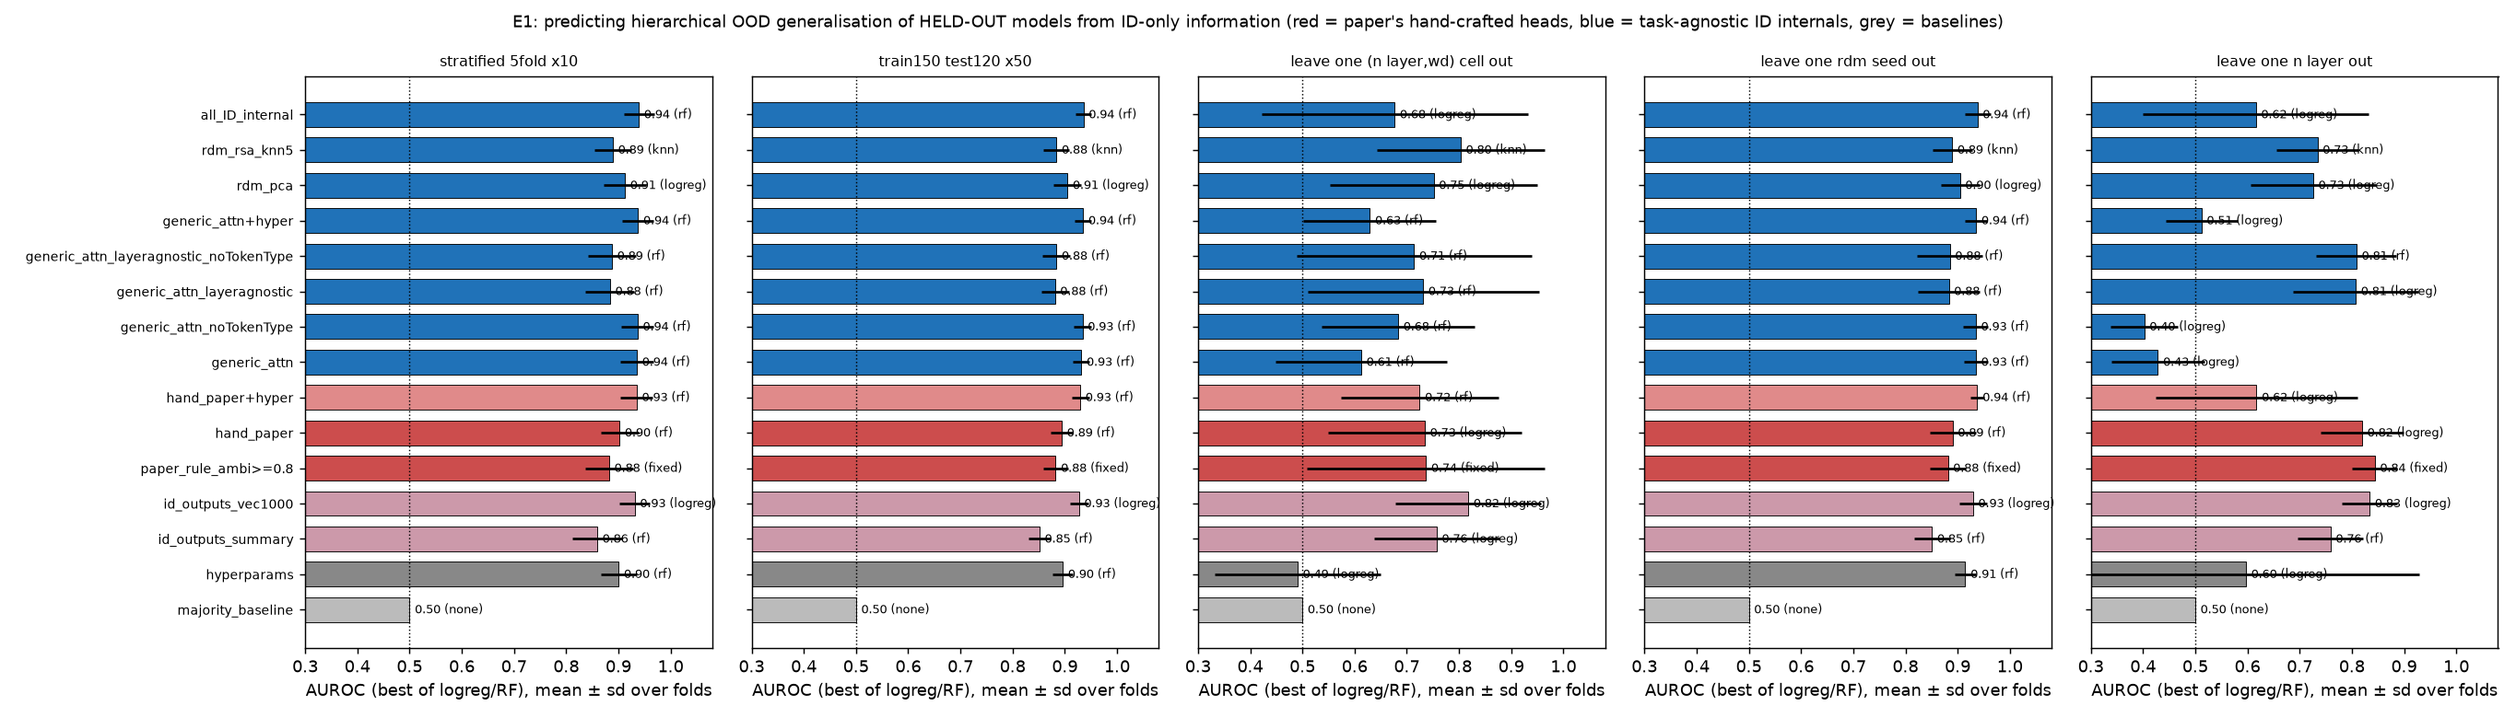
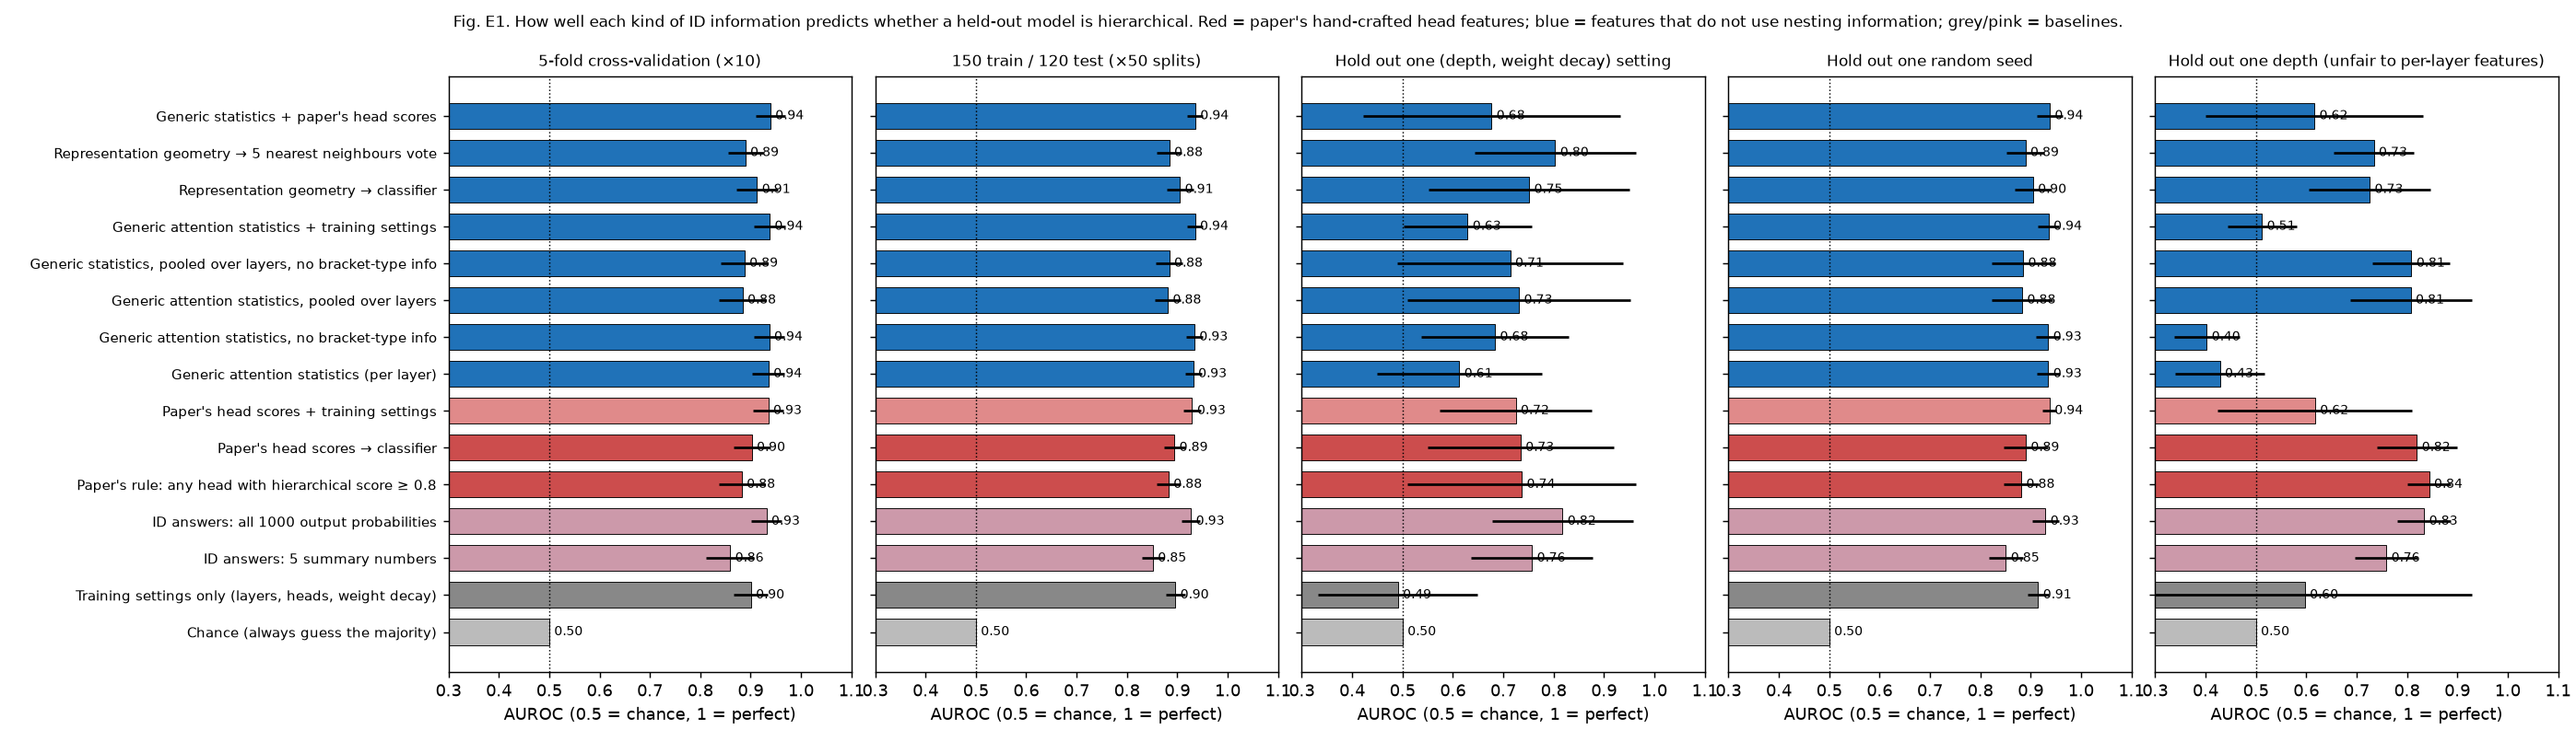
Update id-predict-ood reviewer-response page

Changed region(s): [[0.0, 0.0, 0.9963, 0.9846], [0.9341, 0.6462, 0.9963, 0.7077]]

diff --git a/id-predict-ood-reviews/index.html b/id-predict-ood-reviews/index.html
@@ -28,10 +28,11 @@ img{max-width:100%;border:1px solid var(--line);border-radius:6px;margin:6px 0 4
 <li><em>ID and OOD.</em> ID (in-distribution) test strings look like the training data; both rules give the same answer on them. OOD (out-of-distribution) test strings were chosen so the two rules disagree. A model's <em>OOD accuracy</em> is how often it gives the nesting-rule answer on those strings.</li>
 <li><em>Hierarchical model</em>: OOD accuracy ≥ 0.5, meaning it mostly follows the nesting rule. The paper trained 270 small Transformers; all reach near-perfect ID accuracy but differ in OOD accuracy.</li>
 <li><em>Attention head</em>: a part of a Transformer that decides which earlier positions in the string to read from. The paper's <em>hierarchical-head score</em> is how often, on ID strings, a head's attention separates the positions where nesting is violated from those where it is not.</li>
-<li><em>Paper's predictor</em>: call a model hierarchical if any of its heads has a hierarchical-head score ≥ 0.8. <em>Head-score classifier</em>: a standard classifier (logistic regression or random forest) fit on the paper's per-layer head scores instead of using the fixed 0.8 rule.</li>
-<li><em>Generic features</em>: statistics of ID attention that use no information about brackets, depth or violations: how spread out attention is (entropy), how much goes to the start, the current token, the first or last token, and where along the string it falls.</li>
-<li><em>Geometry</em>: how similar a model's internal representations of different ID strings are to each other. Two models have similar geometry if they group the same strings together internally.</li>
-<li><em>Hyperparameters</em>: training settings: number of layers, number of attention heads, weight decay (a regularisation strength). They were varied across the 270 models.</li>
+<li><em>Paper's rule</em>: call a model hierarchical if any of its heads has a hierarchical-head score ≥ 0.8. <em>Paper's head scores → classifier</em>: a standard classifier (logistic regression or random forest) fit on the paper's per-layer head scores instead of using the fixed 0.8 rule.</li>
+<li><em>Generic attention statistics</em>: statistics of ID attention that do not use depth or nesting violations: how spread out attention is (entropy), how much goes to the start, the current token, the first or last token, and where along the string it falls. "Per layer" keeps them separate for each layer. "No bracket-type info" also drops how much attention lands on <code>(</code> vs <code>)</code>; it gives the same results.</li>
+<li><em>Representation geometry</em>: how similar a model's internal representations of different ID strings are to each other. Two models have similar geometry if they group the same strings together internally. Used either through a classifier or by letting a model's 5 most similar models vote.</li>
+<li><em>ID answers</em>: the model's own outputs on the 1000 ID test strings (all of them, or 5 summary numbers such as average confidence). A baseline that uses behaviour, not internals.</li>
+<li><em>Training settings</em>: number of layers (depth), number of attention heads, weight decay (a regularisation strength). Varied across the 270 models. A baseline that uses no measurement of the model at all.</li>
 <li><em>Held-out prediction</em>: fit a predictor on some models, then test it on other models it never saw. <em>AUROC</em> measures how well the predictor ranks hierarchical models above the others: 1.0 = perfect, 0.5 = chance.</li>
 <li><em>t-SNE and PCA</em>: two ways to draw high-dimensional data in 2D. PCA is a linear projection that keeps overall distances. t-SNE keeps only which points are near each other and can make a continuum look like separate clusters.</li>
 <li><em>Cluster statistics.</em> <em>Silhouette</em>: how separated clusters are (1 = clearly separated, 0 = no structure). <em>ARI</em>: agreement between two groupings (1 = identical, 0 = chance). <em>Dip test</em>: a test of whether a distribution has more than one peak.</li>
@@ -68,13 +69,13 @@ img{max-width:100%;border:1px solid var(--line);border-radius:6px;margin:6px 0 4
 <tr class="must">
 <td class="pri">🟢 Must</td>
 <td><strong>tsfC W2.</strong> "it seemed that it was based on analysing the different attention patterns from the two groups of trained models. ... If this is the case, it seems quite circular. i.e. the two groups are established based on their OOD performance, then differences in the attention patterns are associated with the different generalisations. ... Perhaps one change to the methodology could be to train another model to predict the generalisation based on ~150 of the transformer models and show that this generalises to the ~100 held-out models."</td>
-<td>Did exactly this: fit on 150 models, test on the other 120, 50 random splits (Fig. E1). Head-score classifier: accuracy 0.82, AUROC 0.88. Paper's predictor: 0.79, 0.88. Chance: 0.52. Two baselines matter. Hyperparameters alone predict OOD class with AUROC 0.88–0.90, and a model's 1000 ID answers alone reach 0.93. To separate internals from training settings, we held out all models with a given (depth, weight decay) setting: hyperparameters fall to chance (0.44–0.49) while ID-based predictors still work (ID answers 0.82, geometry 0.80, paper's predictor 0.74, head-score classifier 0.73).</td>
+<td>Did exactly this: fit on 150 models, test on the other 120, 50 random splits (Fig. E1, second panel). Paper's head scores → classifier: accuracy 0.82, AUROC 0.88. Paper's rule: 0.79, 0.88. Chance: 0.52. Two baselines matter. Training settings alone predict OOD class with AUROC 0.88–0.90, and a model's 1000 ID answers alone reach 0.93. To separate internals from training settings, we held out all models with a given (depth, weight decay) setting (Fig. E1, third panel): training settings fall to chance (0.44–0.49) while ID-based predictors still work (ID answers 0.82, geometry 0.80, paper's rule 0.74, head scores 0.73).</td>
 <td>One paragraph "Held-out prediction" at the end of Section 4 (shared with the RAoL W1 edit below): "A predictor fit on 150 models and tested on 120 unseen models identifies hierarchical generalisation with AUROC 0.88 (chance 0.50). Hyperparameters alone reach 0.88–0.90; when all models with a given (depth, weight decay) setting are held out, hyperparameters fall to chance while ID internals retain AUROC 0.73–0.80 (Appendix Y)." <strong>Space:</strong> main +3 lines. Appendix: table and Fig. E1, about one page.</td>
 </tr>
 <tr class="must">
 <td class="pri">🟢 Must</td>
 <td><strong>RAoL W1.</strong> "The paper defines/presents hierarchical heads using whether attention tracks violations of the very NESTED constraint that defines the OOD distinction, which makes the predictor highly task-specific and somewhat close to constructing a detector for the target property. A stronger demonstration would be needed to show that internal analysis can predict an OOD behavior whose relevant computational property was not explicitly used to define the interpretability criterion."</td>
-<td>Held-out prediction using only generic features or geometry, neither of which knows about brackets or nesting (Fig. E1, E4). Bracket task AUROC: generic features 0.89–0.94, geometry 0.89–0.91, paper's predictor 0.88, head-score classifier 0.89–0.90. The generic features also predict the paper's head scores (R² 0.84–0.86), so the same information is present without being built in. QF, 79 models: generic features 0.84, paper's main-clause-auxiliary feature 0.75.</td>
+<td>Held-out prediction using only generic attention statistics or representation geometry, neither of which uses nesting information (Fig. E1 blue bars, Fig. E4). Bracket task AUROC: generic statistics 0.89–0.94, geometry 0.89–0.91, paper's rule 0.88, paper's head scores 0.89–0.90. The generic statistics also predict the paper's head scores (R² 0.84–0.86), so the same information is present without being built in. QF, 79 models: generic statistics 0.84, paper's main-clause-auxiliary feature 0.75.</td>
 <td>Two sentences added to the same "Held-out prediction" paragraph: "Attention statistics that do not reference nesting (entropy, positional profile) predict held-out OOD behaviour as well as the hierarchical-head score (AUROC 0.89–0.94 vs 0.88), in both tasks. The hierarchical head is therefore one readable instance of a broader signal in ID internals." <strong>Space:</strong> main +2 lines. Appendix: feature definitions and the QF table (Fig. E4), about half a page. Answers RAoL W1 and DaQT W2 together.</td>
 </tr>
 <tr class="should">
@@ -104,13 +105,13 @@ img{max-width:100%;border:1px solid var(--line);border-radius:6px;margin:6px 0 4
 <tr class="should">
 <td class="pri">🟡 Should</td>
 <td><strong>DaQT W2.</strong> "The proposed framework is not sufficiently general. The experiments assume known candidate behaviors and hand-motivated internal features that correspond to those behaviors. It is unclear how the approach would work when the relevant strategies or OOD failure modes are not known in advance." / "Please explain how the framework would extend to settings where the relevant OOD behaviors or candidate algorithms are not known in advance."</td>
-<td>Grouped models by ID features alone, with no OOD labels, and checked whether the groups match OOD behaviour (Fig. E3). They do not: the groups match architecture (ARI 1.0 with number of layers), not behaviour (ARI 0.24–0.28). The behavioural signal is there but weak: a model's nearest neighbours in geometry differ from it in OOD accuracy by 0.18, vs 0.42 for random pairs. With OOD labels for some models, generic-feature predictors carry over to new models (0.89–0.94), to unseen hyperparameter settings (0.73–0.80) and to earlier training checkpoints (Fig. E5).</td>
+<td>Grouped models by ID features alone, with no OOD labels, and checked whether the groups match OOD behaviour (Fig. E3). They do not: the groups match architecture (ARI 1.0 with number of layers), not behaviour (ARI 0.24–0.28). The behavioural signal is there but weak: a model's nearest neighbours in geometry differ from it in OOD accuracy by 0.18, vs 0.42 for random pairs. With OOD labels for some models, generic-statistic predictors carry over to new models (0.89–0.94), to unseen training settings (0.73–0.80) and to earlier training checkpoints (Fig. E5).</td>
 <td>In Limitations: "Finding the behavioural modes from ID internals with no labelled models and no candidate behaviours did not work in our population (Appendix Z); the method needs one or the other. Given either, the features need not be task-specific (Section 4)." <strong>Space:</strong> main 0 (Limitations section). Appendix: Fig. E3 and two sentences.</td>
 </tr>
 <tr class="should">
 <td class="pri">🟡 Should</td>
 <td><strong>DaQT W3.</strong> "The population-level methodology limits applicability. The predictive analysis relies on many independently trained models, whereas realistic interpretability settings may involve only one or a few expensive models."</td>
-<td>Two checks (Fig. E1, E5). A predictor fit on one population applies to new models without refitting: AUROC about 0.9 on held-out seeds, 0.73–0.80 on held-out hyperparameter settings. ID features measured after 200K training examples predict the model's behaviour after 1M with AUROC 0.89, the same as the model's own OOD accuracy at 200K; 16% of models change class after 200K, 6% after 600K.</td>
+<td>Two checks (Fig. E1, E5). A predictor fit on one population applies to new models without refitting: AUROC about 0.9 on held-out seeds, 0.73–0.80 on held-out training settings. ID features measured after 200K training examples predict the model's behaviour after 1M with AUROC 0.89, the same as the model's own OOD accuracy at 200K; 16% of models change class after 200K, 6% after 600K.</td>
 <td>In Limitations: "The population is needed to fit the predictor, not to apply it; once fit, it applies to new models and to earlier checkpoints of the same models (Appendix Z). We do not claim it works for a single model." <strong>Space:</strong> main 0 (Limitations section). Appendix: Fig. E5 and two sentences.</td>
 </tr>
 <tr class="should">
@@ -128,23 +129,24 @@ img{max-width:100%;border:1px solid var(--line);border-radius:6px;margin:6px 0 4
 <tr class="optional">
 <td class="pri">🔴 Optional</td>
 <td><em>(Not raised by reviewers.)</em></td>
-<td>Predicted a held-out model's 1000 individual OOD answers, not just its class, by averaging its nearest neighbours in generic-feature space: 0.86 of answers correct. Using the most common answer for each string across all models: 0.64. Knowing the model's true class: 0.88.</td>
+<td>Predicted a held-out model's 1000 individual OOD answers, not just its class, by averaging its 5 most similar models' answers (similarity by generic statistics): 0.86 of answers correct. Using the most common answer for each string across all models: 0.64. Knowing the model's true class: 0.88.</td>
 <td>Skip in the main text. If space allows, one sentence in the appendix table caption. <strong>Space:</strong> 0.</td>
 </tr>
 </tbody>
 </table>
 <h2>Figures</h2>
-<p><strong>Fig. E1.</strong> AUROC for each set of ID features. Red: the paper's predictor and head-score classifier. Blue: generic features and geometry. Grey and pink: baselines (hyperparameters, ID answers, chance). Panels, left to right: 5-fold cross-validation; 150/120 splits; hold out one (depth, weight decay) setting; hold out one random seed; hold out one depth (this last one is unfair to per-layer features and is for completeness).</p>
+<p>Bar labels name the information given to the predictor; each is defined in the Background list above. Red bars use the paper's hand-crafted head features; blue bars use features that do not use nesting information; grey and pink bars are baselines.</p>
+<p><strong>Fig. E1.</strong> AUROC for each kind of ID information, bracket task. Panels, left to right: 5-fold cross-validation; the reviewer's 150/120 splits; hold out all models with one (depth, weight decay) setting; hold out one random seed; hold out one depth (unfair to per-layer features, shown for completeness). Error bars: spread across splits.</p>
 <p><a href="figures/e1_feature_sets.png" target="_blank"><img alt="E1" src="figures/e1_feature_sets.png" loading="lazy"/></a></p>
-<p><strong>Fig. E2a.</strong> The OOD answers without t-SNE. Top: histogram of OOD accuracy; silhouette for 2 to 10 clusters with two cluster-free reference distributions; gap statistic. Bottom: PCA coloured by OOD accuracy; the paper's t-SNE; each model's agreement with the first-bracket rule against its agreement with the nesting rule, coloured by cluster.</p>
+<p><strong>Fig. E2a.</strong> The OOD answers without t-SNE. Top left: histogram of OOD accuracy over the 270 models. Top middle: silhouette for 2 to 10 clusters (blue) against two reference distributions with no clusters (grey, orange). Top right: gap statistic, which would peak at the true number of clusters if there were one. Bottom left: PCA coloured by OOD accuracy. Bottom middle: the paper's t-SNE. Bottom right: each model's agreement with the first-bracket rule against its agreement with the nesting rule, coloured by cluster.</p>
 <p><a href="figures/e2_ood_cluster_structure.png" target="_blank"><img alt="E2a" src="figures/e2_ood_cluster_structure.png" loading="lazy"/></a></p>
 <p><strong>Fig. E2b.</strong> t-SNE at different settings and seeds, coloured by OOD accuracy.</p>
 <p><a href="figures/e2_tsne_robustness.png" target="_blank"><img alt="E2b" src="figures/e2_tsne_robustness.png" loading="lazy"/></a></p>
-<p><strong>Fig. E3.</strong> ID features with no OOD labels. Left and middle: PCA of generic features coloured by OOD accuracy and by number of layers. Right: geometry distances between models, coloured by OOD accuracy.</p>
+<p><strong>Fig. E3.</strong> ID features with no OOD labels. Left and middle: PCA of generic attention statistics coloured by OOD accuracy and by number of layers. Right: representation-geometry distances between models, coloured by OOD accuracy.</p>
 <p><a href="figures/e3_unsupervised_discovery.png" target="_blank"><img alt="E3" src="figures/e3_unsupervised_discovery.png" loading="lazy"/></a></p>
-<p><strong>Fig. E4.</strong> Question formation, 79 models. Red: the paper's main-clause-auxiliary feature. Blue: generic features and geometry, computed on the 406 ID questions.</p>
+<p><strong>Fig. E4.</strong> Question formation, 79 models, 5-fold cross-validation. Same colour scheme as Fig. E1.</p>
 <p><a href="figures/e4_qf_feature_sets.png" target="_blank"><img alt="E4" src="figures/e4_qf_feature_sets.png" loading="lazy"/></a></p>
-<p><strong>Fig. E5.</strong> Left: AUROC for predicting the final (1M-example) class from ID features measured after 200K to 1M training examples. Dashed: the model's own OOD accuracy at that point. Right: fraction of models whose class still changes after that point.</p>
+<p><strong>Fig. E5.</strong> Left: AUROC for predicting the final (1M-example) class from ID features measured after 200K to 1M training examples. Dashed: the model's own OOD accuracy at that point, as a reference. Right: percentage of models whose class still changes after that point.</p>
 <p><a href="figures/e5_temporal.png" target="_blank"><img alt="E5" src="figures/e5_temporal.png" loading="lazy"/></a></p>
 <h2>Files</h2>
-<p>Scripts: <code>extract_features.py</code>, <code>extract_qf_features.py</code>, <code>e1_heldout_prediction.py</code>, <code>e2_ood_cluster_structure.py</code>, <code>e3_unsupervised_discovery.py</code>, <code>e4_qf_analysis.py</code>, <code>e5_temporal.py</code>. Results: <code>results/</code>. Features: <code>features/*.npz</code> (not committed). Detailed HTML report: <code>report/index.html</code>. Page built by <code>build_pages.py</code>.</p><p class="meta">Source: <code>review_experiments/REVIEWER_RESPONSE.md</code> in <a href="https://github.com/vli31/id-predict-ood">vli31/id-predict-ood</a>. Click a figure to open it full size.</p></body></html>
+<p>Scripts: <code>extract_features.py</code>, <code>extract_qf_features.py</code>, <code>e1_heldout_prediction.py</code>, <code>e2_ood_cluster_structure.py</code>, <code>e3_unsupervised_discovery.py</code>, <code>e4_qf_analysis.py</code>, <code>e5_temporal.py</code>, <code>replot_plain_labels.py</code>. Results: <code>results/</code>. Features: <code>features/*.npz</code> (not committed). Detailed HTML report: <code>report/index.html</code>. Page built by <code>build_pages.py</code>.</p><p class="meta">Source: <code>review_experiments/REVIEWER_RESPONSE.md</code> in <a href="https://github.com/vli31/id-predict-ood">vli31/id-predict-ood</a>. Click a figure to open it full size.</p></body></html>
